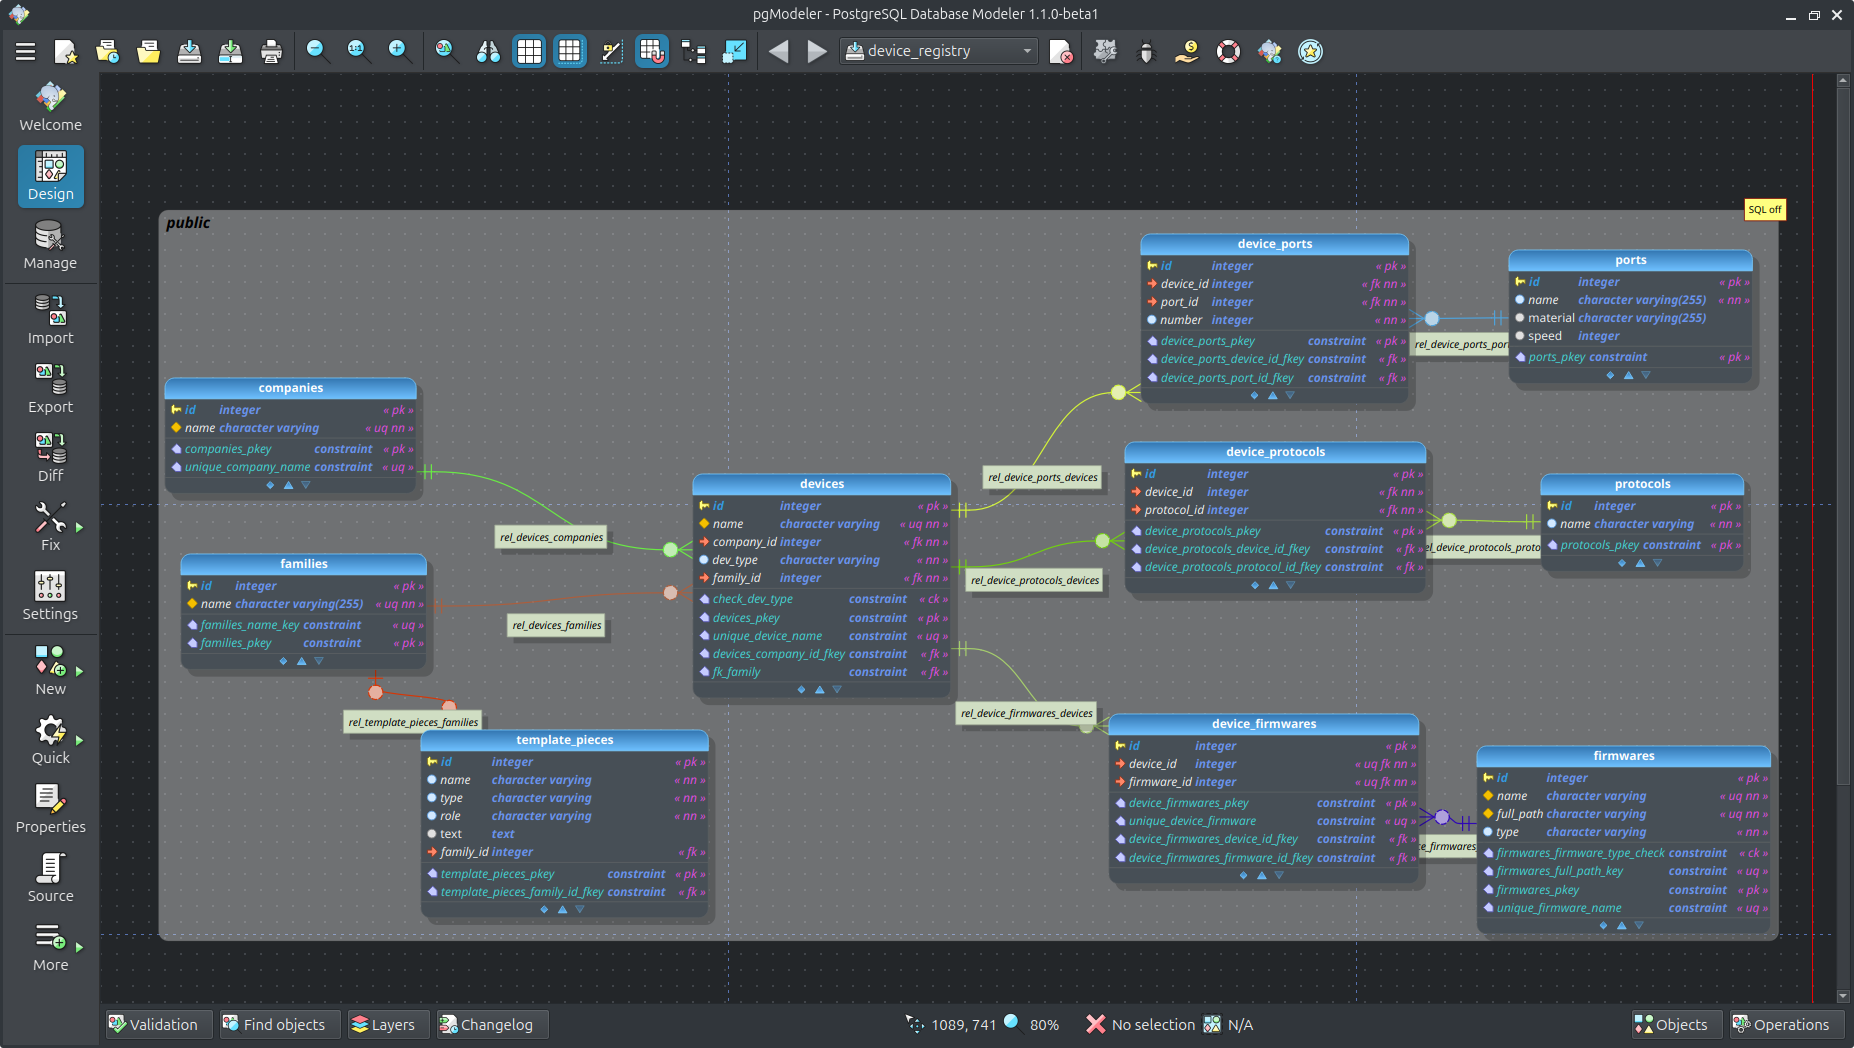
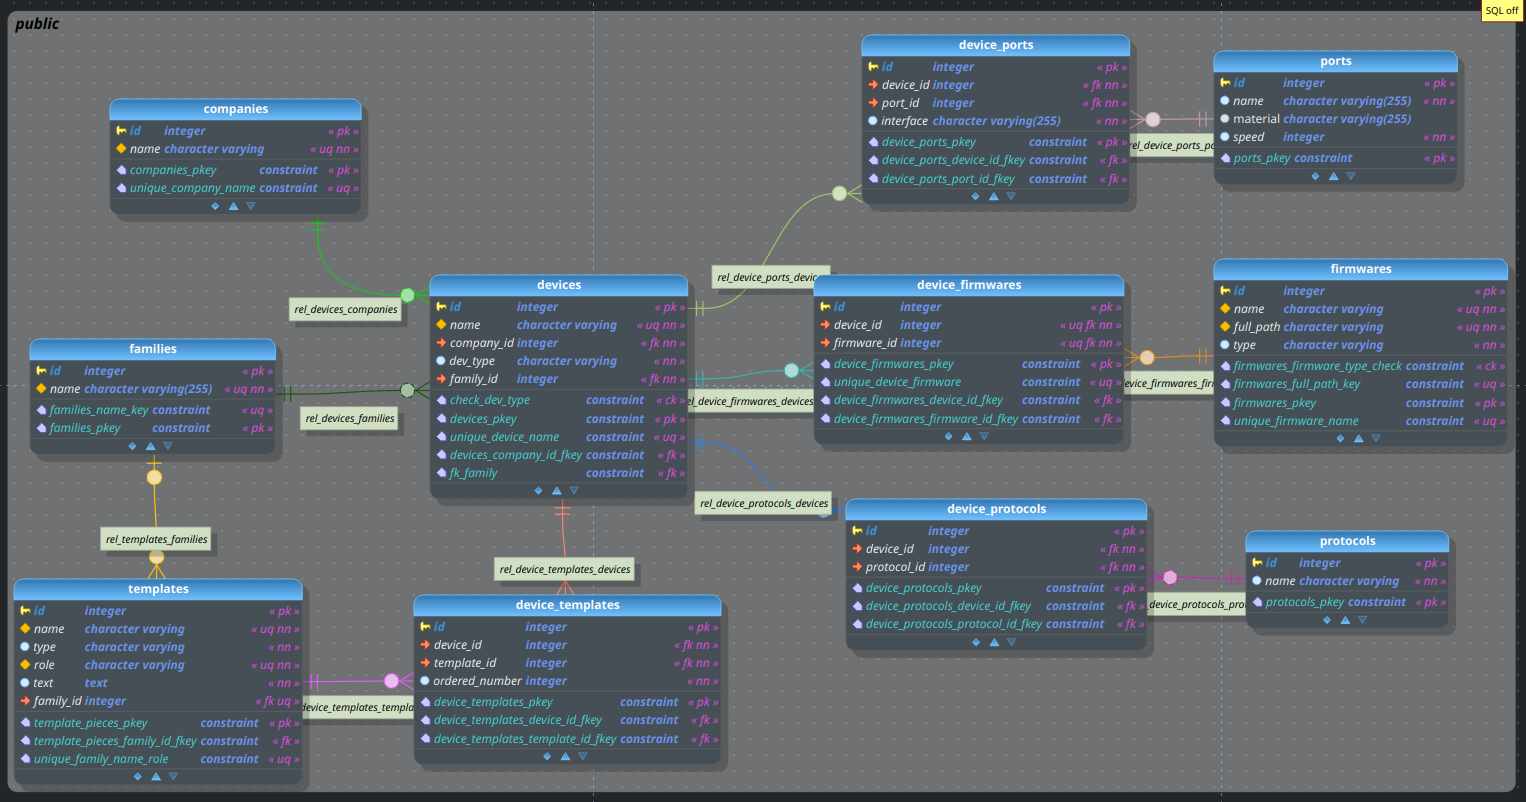
new database model

diff --git a/internal/database/models/models.py b/internal/database/models/models.py
@@ -1,4 +1,4 @@
-from sqlalchemy import CheckConstraint, Column, ForeignKeyConstraint, Integer, PrimaryKeyConstraint, String, Text, UniqueConstraint
+from sqlalchemy import CheckConstraint, Column, ForeignKeyConstraint, Integer, PrimaryKeyConstraint, Sequence, String, Text, UniqueConstraint
 
 from sqlalchemy.orm import declarative_base, relationship
 
@@ -29,6 +29,7 @@ class Families(Base):
     name = Column(String(255), nullable=False)
 
     devices = relationship('Devices', back_populates='family')
+    templates = relationship('Templates', back_populates='family')
 
 
 class Firmwares(Base):
@@ -56,8 +57,8 @@ class Ports(Base):
 
     id = Column(Integer, primary_key=True)
     name = Column(String(255), nullable=False)
+    speed = Column(Integer, nullable=False)
     material = Column(String(255))
-    speed = Column(Integer)
 
     device_ports = relationship('DevicePorts', back_populates='port')
 
@@ -72,19 +73,6 @@ class Protocols(Base):
     name = Column(String, nullable=False)
 
     device_protocols = relationship('DeviceProtocols', back_populates='protocol')
-
-
-class TemplatePieces(Base):
-    __tablename__ = 'template_pieces'
-    __table_args__ = (
-        PrimaryKeyConstraint('id', name='template_pieces_pkey'),
-    )
-
-    id = Column(Integer, primary_key=True)
-    name = Column(String, nullable=False)
-    type = Column(String, nullable=False)
-    role = Column(String, nullable=False)
-    text = Column(Text)
 
 
 class Devices(Base):
@@ -108,6 +96,26 @@ class Devices(Base):
     device_firmwares = relationship('DeviceFirmwares', back_populates='device')
     device_ports = relationship('DevicePorts', back_populates='device')
     device_protocols = relationship('DeviceProtocols', back_populates='device')
+    device_templates = relationship('DeviceTemplates', back_populates='device')
+
+
+class Templates(Base):
+    __tablename__ = 'templates'
+    __table_args__ = (
+        ForeignKeyConstraint(['family_id'], ['families.id'], name='template_pieces_family_id_fkey'),
+        PrimaryKeyConstraint('id', name='template_pieces_pkey'),
+        UniqueConstraint('family_id', 'name', 'role', name='unique_family_name_role')
+    )
+
+    id = Column(Integer, Sequence('template_pieces_id_seq'), primary_key=True)
+    name = Column(String, nullable=False)
+    type = Column(String, nullable=False)
+    role = Column(String, nullable=False)
+    text = Column(Text, nullable=False)
+    family_id = Column(Integer)
+
+    family = relationship('Families', back_populates='templates')
+    device_templates = relationship('DeviceTemplates', back_populates='template')
 
 
 class DeviceFirmwares(Base):
@@ -138,7 +146,7 @@ class DevicePorts(Base):
     id = Column(Integer, primary_key=True)
     device_id = Column(Integer, nullable=False)
     port_id = Column(Integer, nullable=False)
-    name = Column(String(255))
+    interface = Column(String(255), nullable=False)
 
     device = relationship('Devices', back_populates='device_ports')
     port = relationship('Ports', back_populates='device_ports')
@@ -158,3 +166,20 @@ class DeviceProtocols(Base):
 
     device = relationship('Devices', back_populates='device_protocols')
     protocol = relationship('Protocols', back_populates='device_protocols')
+
+
+class DeviceTemplates(Base):
+    __tablename__ = 'device_templates'
+    __table_args__ = (
+        ForeignKeyConstraint(['device_id'], ['devices.id'], name='device_templates_device_id_fkey'),
+        ForeignKeyConstraint(['template_id'], ['templates.id'], name='device_templates_template_id_fkey'),
+        PrimaryKeyConstraint('id', name='device_templates_pkey')
+    )
+
+    id = Column(Integer, primary_key=True)
+    device_id = Column(Integer, nullable=False)
+    template_id = Column(Integer, nullable=False)
+    ordered_number = Column(Integer, nullable=False)
+
+    device = relationship('Devices', back_populates='device_templates')
+    template = relationship('Templates', back_populates='device_templates')

diff --git a/cmd/db_manager/tabs/add_tab.py b/cmd/db_manager/tabs/add_tab.py
@@ -22,34 +22,34 @@ class AddTab(BaseTab):
             ("SUBMIT", self.submit_device)
         )
         self.create_block(
-            "template_piece",
+            "template",
             {
                 "name": None,
                 "type": ['interface', 'header', 'footer'],
                 "role": ['data', 'ipmi', 'or', 'tsh', 'video'],
                 'text': None
             },
-            ('SUBMIT', self.submit_template_piece)
+            ('SUBMIT', self.submit_template)
         )
         self.create_feedback_area()
     
     @error_handler
-    def submit_template_piece(self):
-        template_name = self.fields['template_piece']['name'].get().strip()
-        template_type = self.fields['template_piece']['type'].get().strip()
-        role = self.fields['template_piece']['role'].get().strip()
-        text = self.fields['template_piece']['text'].get().strip()
+    def submit_template(self):
+        template_name = self.fields['template']['name'].get().strip()
+        template_type = self.fields['template']['type'].get().strip()
+        role = self.fields['template']['role'].get().strip()
+        text = self.fields['template']['text'].get().strip()
         
         if not template_name:
-            raise ValueError("Template piece's name cannot be empty.")
+            raise ValueError("Template name cannot be empty.")
         if not template_type:
-            raise ValueError("Select template piece type")
+            raise ValueError("Select template type")
         if not role:
-            raise ValueError("Select template piece role")
+            raise ValueError("Select template role")
         if not text:
-            raise ValueError("Template piece's text cannot be empty.")
+            raise ValueError("Template text cannot be empty.")
         
-        self.app.entity_services['template_piece'].create(
+        self.app.entity_services['template'].create(
             {
                 'name': template_name,
                 'type': template_type,
@@ -58,7 +58,7 @@ class AddTab(BaseTab):
             }
         )
 
-        self.display_feedback("Successfully added to the template_pieces table.")
+        self.display_feedback("Successfully added to the templates table.")
     @error_handler
     def submit_protocol(self):
         protocol_name = self.fields['protocol']['name'].get().strip()

diff --git a/cmd/db_manager/tabs/info_tab.py b/cmd/db_manager/tabs/info_tab.py
@@ -3,22 +3,22 @@ from pprint import pformat
 
 class InfoTab(BaseTab):
     def create_widgets(self):
-        entities = ['company', 'family', 'device', 'firmware', 'template_piece']
+        entities = ['company', 'family', 'device', 'firmware', 'template']
         for entity in entities:
             self.create_block(entity, {"name":None}, ("SHOW", getattr(self, f'show_{entity}_info')))
         self.create_feedback_area()
         
     @error_handler
-    def show_template_piece_info(self):
-        template_piece = self.check_template_piece_name(self.fields['template_piece']['name'].get())
+    def show_template_info(self):
+        template = self.check_template_name(self.fields['template']['name'].get())
         
         self.display_feedback(
             f"Template Piece Information:\n"
-            f"id: {template_piece.id}\n"
-            f"name: {template_piece.name}\n"
-            f"type: {template_piece.type}\n"
-            f"role: {template_piece.role}\n"
-            f"text:\n{template_piece.text}\n"
+            f"id: {template.id}\n"
+            f"name: {template.name}\n"
+            f"type: {template.type}\n"
+            f"role: {template.role}\n"
+            f"text:\n{template.text}\n"
         )
         
     @error_handler

diff --git a/internal/database/services/template_service.py b/internal/database/services/template_service.py
@@ -1,0 +1,36 @@
+from sqlalchemy.orm import Session
+
+from internal.database.models import Templates
+
+class TemplateService:
+    def __init__(self, db: Session):
+        self.db = db
+    
+    def get_all(self):
+        return self.db.query(Templates).all()
+
+    def get_by_id(self, id: int):
+        return self.db.query(Templates).filter(Templates.id == id).first()
+
+    def get_by_name(self, name: str):
+        return self.db.query(Templates).filter(Templates.name == name).first()
+
+    def create(self, data: dict):
+        template = Templates(**data)
+        self.db.add(template)
+        self.db.commit()
+        self.db.refresh(template)
+        return template
+
+    def delete(self, template: Templates):
+        self.db.delete(template)
+        self.db.commit()
+
+    def delete_by_id(self, id: int):
+        template = self.get_by_id(id)
+        self.delete(template)
+    
+    def delete_by_name(self, name: str):
+        template = self.get_by_name(name)
+        self.delete(template)
+    

diff --git a/cmd/configurator/tabs/view_tab.py b/cmd/configurator/tabs/view_tab.py
@@ -2,8 +2,8 @@ from internal.db_app.base_tab import BaseTab
 from typing import Dict, List
 
 from tkinter import ttk
-# TODO: сделать просмотр содержимого template_pieces из базы данных по их имени
-# TODO: сделать возможным просмотр СПИСКА template_pieces из базы данных
+# TODO: сделать просмотр содержимого templates из базы данных по их имени
+# TODO: сделать возможным просмотр СПИСКА templates из базы данных
 
 class ViewTab(BaseTab):        
     def create_widgets(self):

diff --git a/internal/db_app/database_app.py b/internal/db_app/database_app.py
@@ -13,7 +13,7 @@ from internal.database.services import (
         DevicePortService,
         FamilyService,
         PortService,
-        TemplatePieceService
+        TemplateService
 )
 
 class DatabaseApp:
@@ -72,7 +72,7 @@ class DatabaseApp:
             'device_firmware': DeviceFirmwareService(self.session),
             'device_protocol': DeviceProtocolService(self.session),
             'device_port': DevicePortService(self.session),
-            'template_piece': TemplatePieceService(self.session),
+            'template': TemplateService(self.session),
         }
         
     def get_tuples_of_entities(self):

diff --git a/internal/db_app/base_tab.py b/internal/db_app/base_tab.py
@@ -47,7 +47,7 @@ class BaseTab:
     def check_family_name(self, family_name: str) -> int:
         return self.__validate_entity('family', family_name)
     def check_template_piece_name(self, template_peice_name: str) -> int:
-        return self.__validate_entity('template_piece', template_peice_name)
+        return self.__validate_entity('template', template_peice_name)
     def check_device_name(self, device_name: str) -> int:
         return self.__validate_entity('device', device_name)
     def check_firmware_name(self, firmware_name: str) -> int:

diff --git a/cmd/db_manager/tabs/tables_tab.py b/cmd/db_manager/tabs/tables_tab.py
@@ -7,7 +7,7 @@ class TablesTab(BaseTab):
         self.create_button_in_line(("Devices", lambda : self.load_table('device')))
         self.create_button_in_line(("Firmwares", lambda : self.load_table('firmware')))
         self.create_button_in_line(("Protocols", lambda : self.load_table('protocol')))
-        self.create_button_in_line(("Template pieces", lambda : self.load_table('template_piece')))
+        self.create_button_in_line(("Templates", lambda : self.load_table('template')))
         self.create_feedback_area()
 
     @error_handler

diff --git a/cmd/db_manager/tabs/delete_tab.py b/cmd/db_manager/tabs/delete_tab.py
@@ -2,7 +2,7 @@ from internal.db_app import BaseTab, error_handler
 
 class DeleteTab(BaseTab):
     def create_widgets(self):
-        entities = ["company", "family", "device", "firmware", "protocol", "template_piece"]
+        entities = ["company", "family", "device", "firmware", "protocol", "template"]
         for entity in entities:
             self.create_block(entity, {"name": None}, ("delete", lambda e=entity: self.delete_entity(e)))
 

diff --git a/internal/database/services/device_service.py b/internal/database/services/device_service.py
@@ -78,7 +78,7 @@ class DeviceService:
             },
             "ports": [
                 {
-                    "interface": device_port.name,
+                    "interface": device_port.interface,
                     "material": port.material,
                     "speed": port.speed,
                     "name": port.name

diff --git a/internal/database/services/__init__.py b/internal/database/services/__init__.py
@@ -9,4 +9,4 @@ from .device_firmware_service import DeviceFirmwareService
 from .device_protocol_service import DeviceProtocolService
 from .device_port_service import DevicePortService
 from .family_service import FamilyService
-from .template_piece_service import TemplatePieceService
+from .template_service import TemplateService

diff --git a/internal/database/models/__init__.py b/internal/database/models/__init__.py
@@ -8,7 +8,7 @@ from .models import (
     DevicePorts,
     Families,
     Ports,
-    TemplatePieces
+    Templates
 )
 
 # sqlacodegen --outfile ./internal/database/models/models.py postgresql://postgres:postgres@localhost:5432/device_registry
